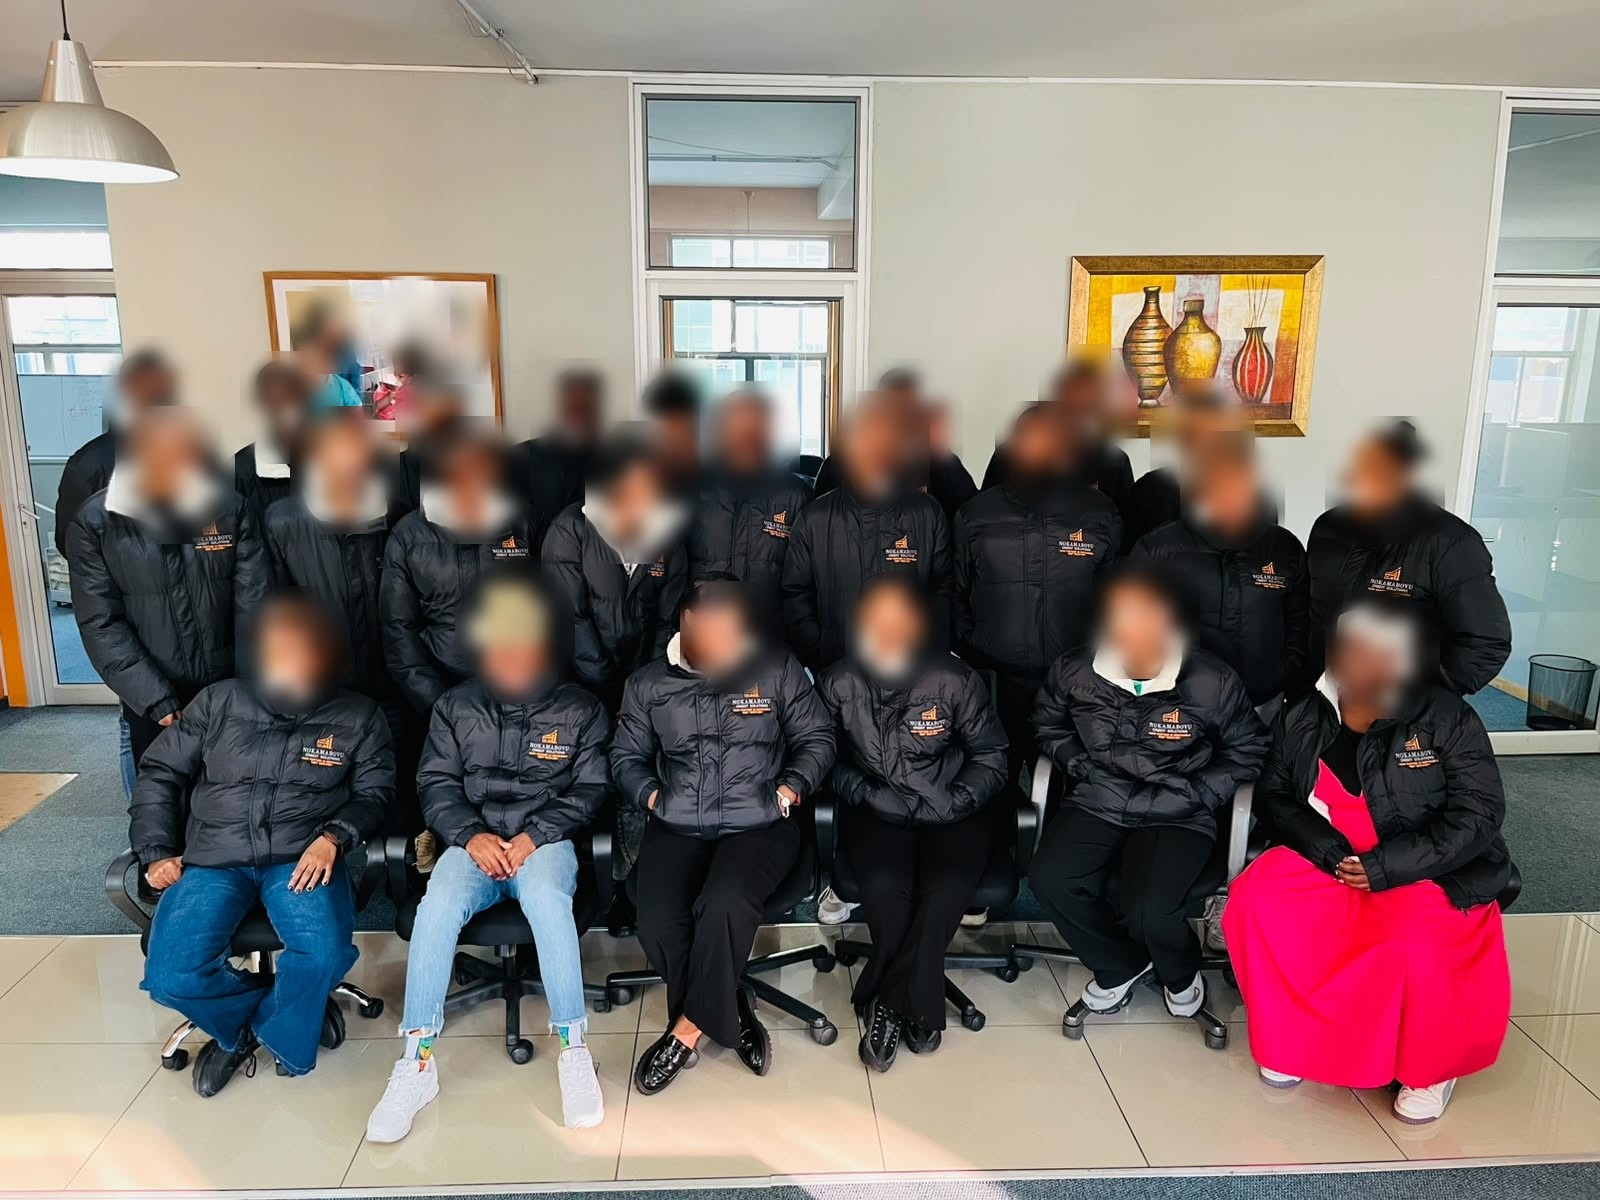
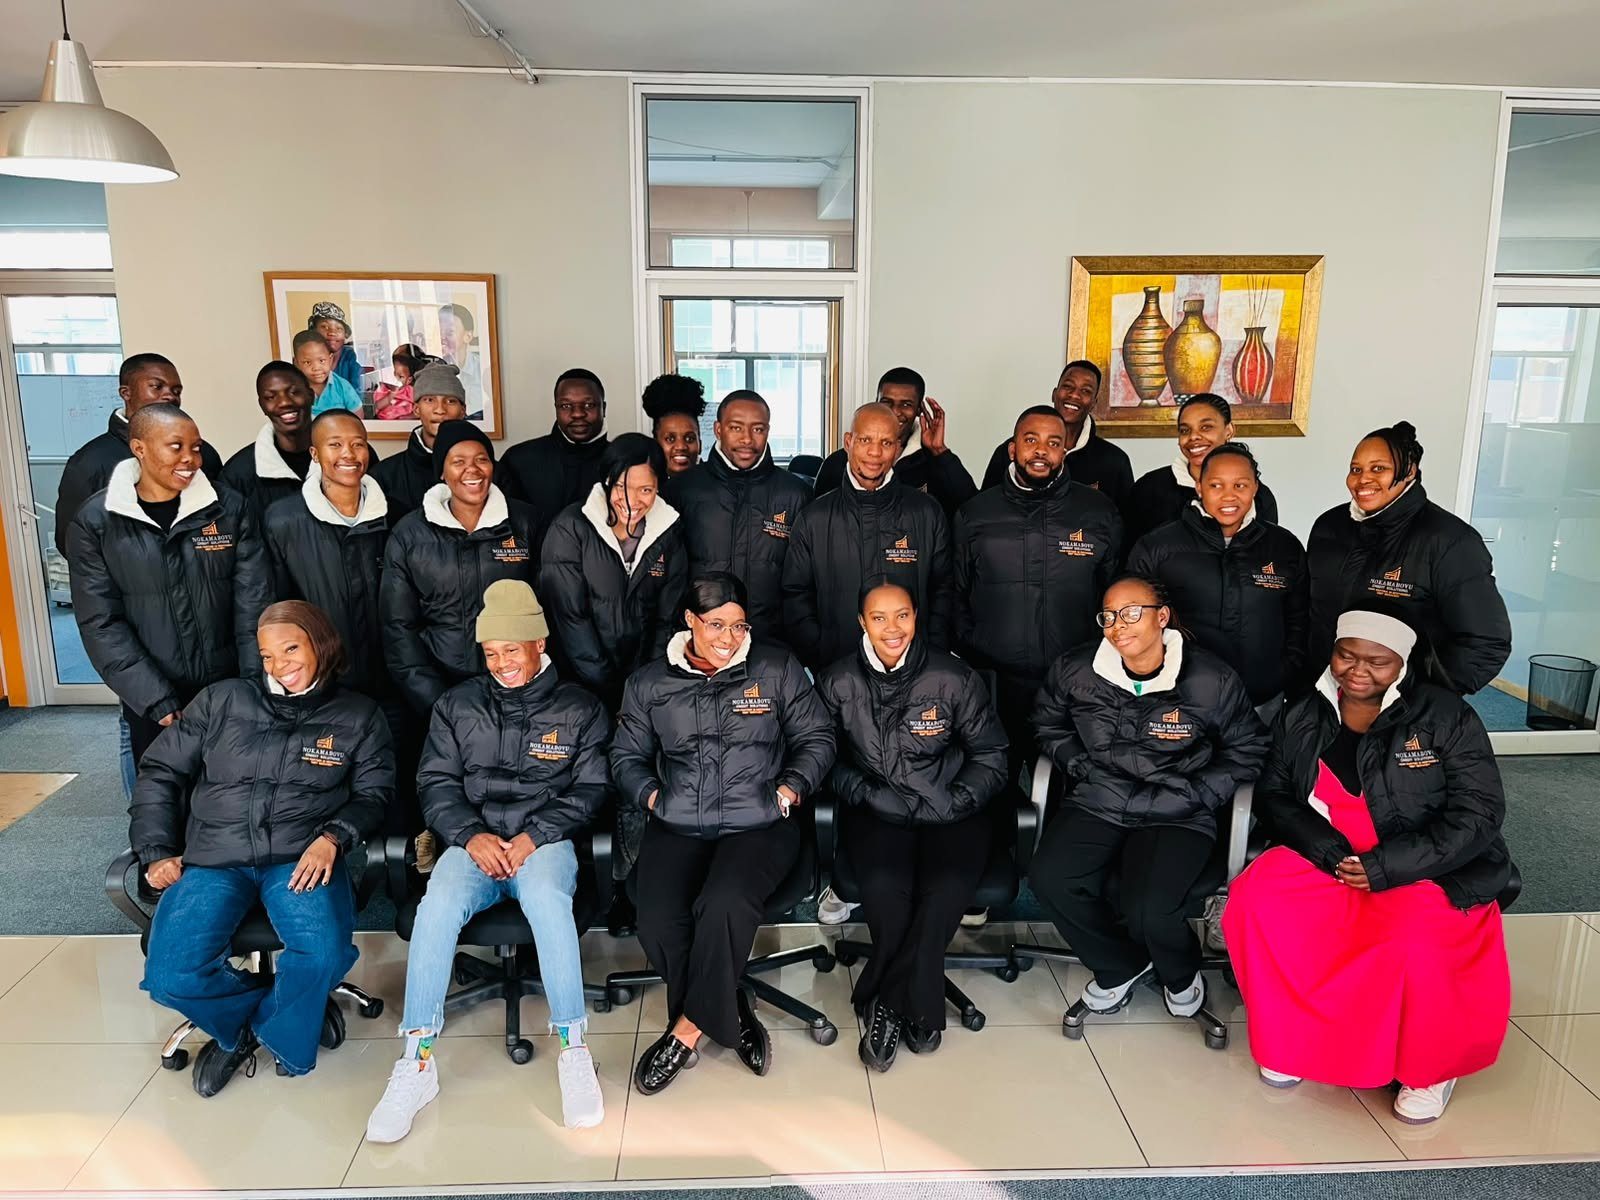
Careers hero: unblurred team photo

diff --git a/nokamabovu_project/settings.py b/nokamabovu_project/settings.py
@@ -32,7 +32,7 @@ DEBUG = os.environ.get("DJANGO_DEBUG", "False") == "True"
 
 ALLOWED_HOSTS = os.environ.get(
     "DJANGO_ALLOWED_HOSTS",
-    "nokamabovu.co.za,www.nokamabovu.co.za,localhost,127.0.0.1,192.168.101.182",
+    "nokamabovu.co.za,www.nokamabovu.co.za,localhost,127.0.0.1,192.168.101.117",
 ).split(",")
 
 
